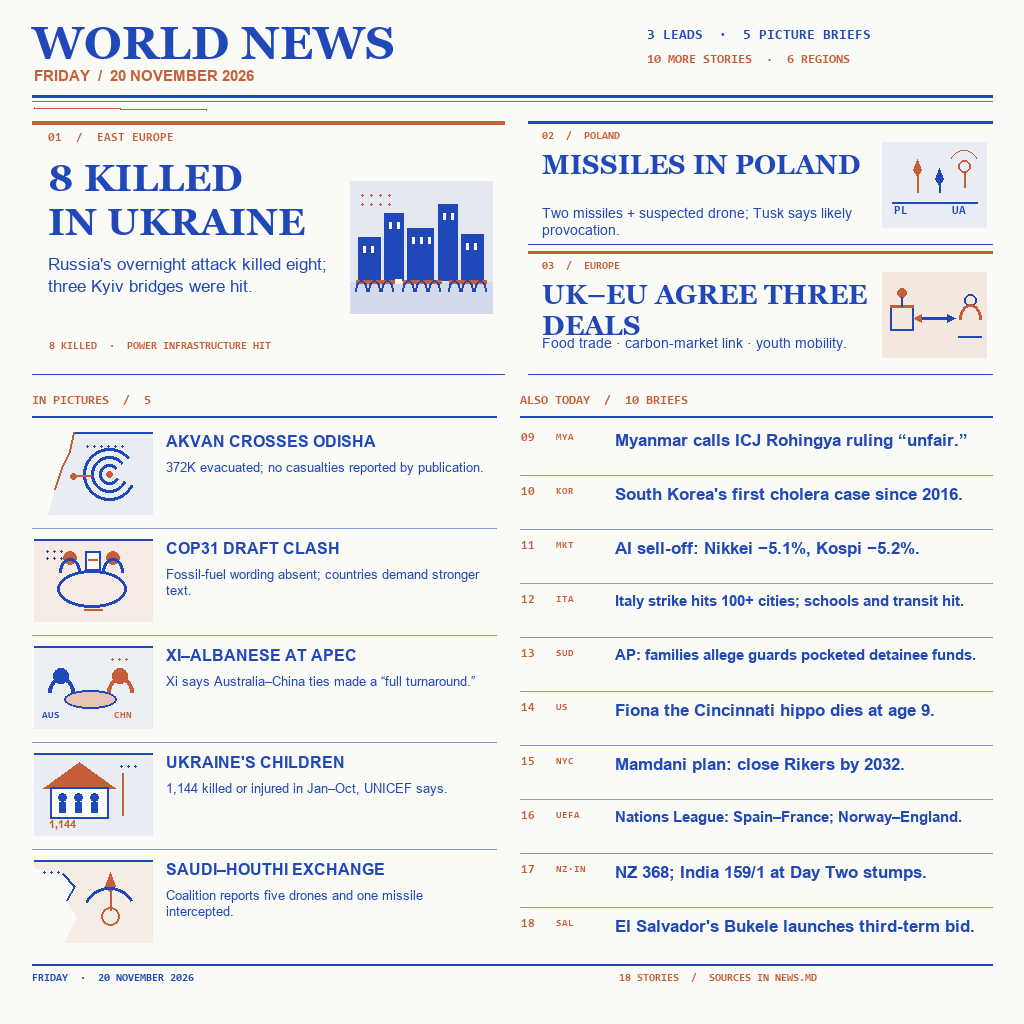
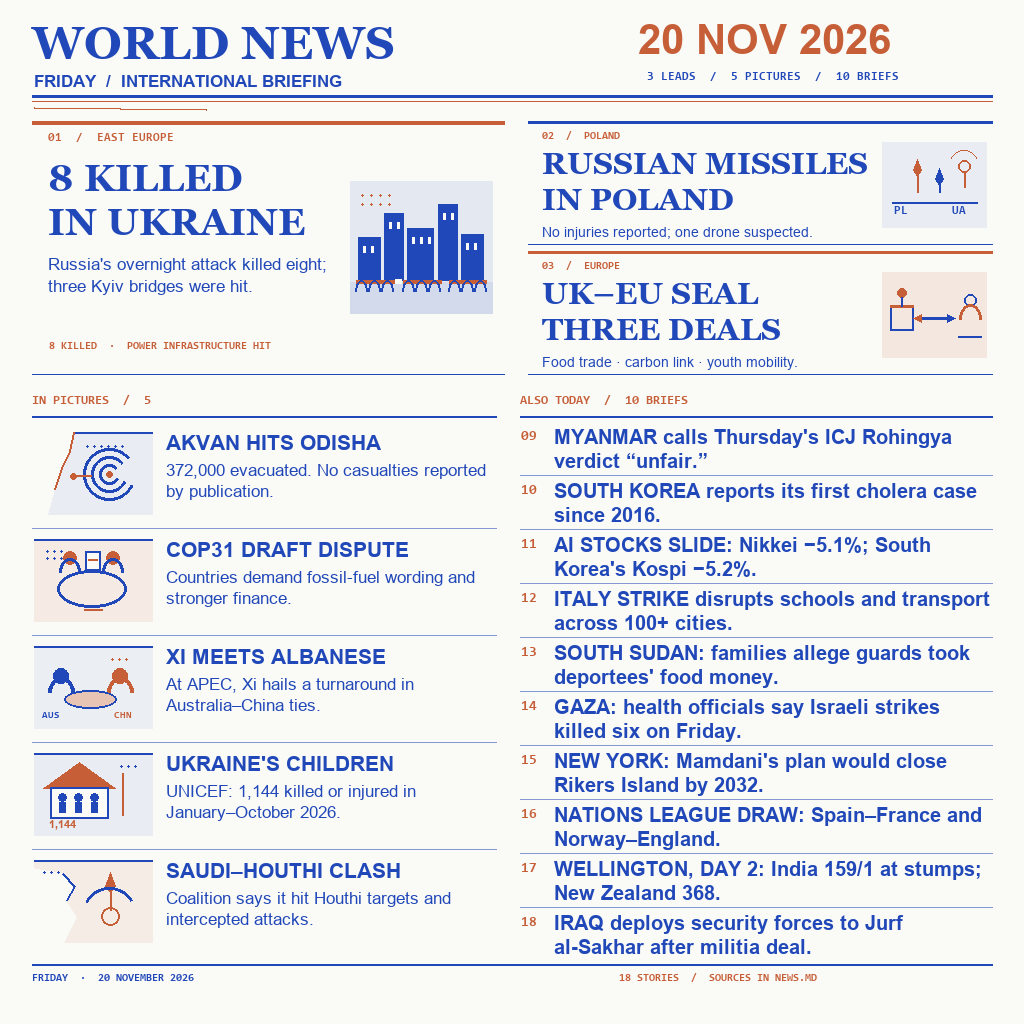
Improve thumbnail readability and same-day news selection

diff --git a/render-v2.py b/render-v2.py
@@ -236,9 +236,9 @@ def draw_thumb_gulf(draw: ImageDraw.ImageDraw, x: int, y: int, w: int, h: int) -
 
 def draw_header(draw: ImageDraw.ImageDraw) -> None:
     ink_text(draw, (32, 16), "WORLD NEWS", font("display", 46), BLUE, "masthead")
-    ink_text(draw, (34, 67), "FRIDAY  /  20 NOVEMBER 2026", font("bold", 15), ORANGE, "date")
-    ink_text(draw, (647, 28), "3 LEADS  ·  5 PICTURE BRIEFS", font("mono", 14), BLUE, "edition-top")
-    ink_text(draw, (647, 53), "10 MORE STORIES  ·  6 REGIONS", font("mono", 13), ORANGE, "edition-bottom")
+    ink_text(draw, (34, 71), "FRIDAY  /  INTERNATIONAL BRIEFING", font("bold", 17), BLUE, "edition-kicker")
+    ink_text(draw, (638, 15), "20 NOV 2026", font("bold", 42), ORANGE, "date")
+    ink_text(draw, (647, 71), "3 LEADS  /  5 PICTURES  /  10 BRIEFS", font("mono", 12), BLUE, "edition-top")
     rule(draw, (32, 96, 992, 96), BLUE, 3)
     rule(draw, (32, 101, 992, 101), ORANGE, 1)
     rule(draw, (34, 107, 206, 109), ORANGE, 2)
@@ -261,20 +261,20 @@ def draw_leads(draw: ImageDraw.ImageDraw) -> None:
     y2, h2 = 122, 122
     rule(draw, (rx, y2, rx + rw, y2), BLUE, 3)
     ink_text(draw, (rx + 14, y2 + 8), "02  /  POLAND", font("mono", 11), ORANGE, "lead-2-kicker")
-    paragraph(draw, rx + 14, y2 + 27, "MISSILES IN POLAND", font("display", 27), BLUE,
+    paragraph(draw, rx + 14, y2 + 23, "RUSSIAN MISSILES\nIN POLAND", font("display", 31), BLUE,
               333, 0, "lead-2-head", 2)
-    paragraph(draw, rx + 14, y2 + 83, "Two missiles + suspected drone; Tusk says likely provocation.",
-              font("sans", 14), BLUE, 335, 1, "lead-2-deck", 2)
+    paragraph(draw, rx + 14, y2 + 102, "No injuries reported; one drone suspected.",
+              font("sans", 14), BLUE, 335, 1, "lead-2-deck", 1)
     draw_poland_airspace(draw, rx + 354, y2 + 20)
     rule(draw, (rx, y2 + h2, rx + rw, y2 + h2), BLUE, 1)
 
     y3, h3 = 252, 122
     rule(draw, (rx, y3, rx + rw, y3), ORANGE, 3)
     ink_text(draw, (rx + 14, y3 + 8), "03  /  EUROPE", font("mono", 11), ORANGE, "lead-3-kicker")
-    paragraph(draw, rx + 14, y3 + 27, "UK–EU AGREE THREE DEALS", font("display", 27), BLUE,
+    paragraph(draw, rx + 14, y3 + 23, "UK–EU SEAL\nTHREE DEALS", font("display", 31), BLUE,
               333, 0, "lead-3-head", 2)
-    paragraph(draw, rx + 14, y3 + 83, "Food trade · carbon-market link · youth mobility.",
-              font("sans", 14), BLUE, 335, 1, "lead-3-deck", 2)
+    paragraph(draw, rx + 14, y3 + 102, "Food trade · carbon link · youth mobility.",
+              font("sans", 14), BLUE, 335, 1, "lead-3-deck", 1)
     draw_trade_icon(draw, rx + 354, y3 + 20)
     rule(draw, (rx, y3 + h3, rx + rw, y3 + h3), BLUE, 1)
 
@@ -284,19 +284,19 @@ def draw_picture_briefs(draw: ImageDraw.ImageDraw) -> None:
     ink_text(draw, (x, 394), "IN PICTURES  /  5", font("mono", 13), ORANGE, "pictures-heading")
     rule(draw, (x, 416, x + colw, 416), BLUE, 2)
     entries = [
-        ("AKVAN CROSSES ODISHA", "372K evacuated; no casualties reported by publication.", draw_thumb_cyclone),
-        ("COP31 DRAFT CLASH", "Fossil-fuel wording absent; countries demand stronger text.", draw_thumb_cop),
-        ("XI–ALBANESE AT APEC", "Xi says Australia–China ties made a “full turnaround.”", draw_thumb_apec),
-        ("UKRAINE'S CHILDREN", "1,144 killed or injured in Jan–Oct, UNICEF says.", draw_thumb_children),
-        ("SAUDI–HOUTHI EXCHANGE", "Coalition reports five drones and one missile intercepted.", draw_thumb_gulf),
+        ("AKVAN HITS ODISHA", "372,000 evacuated. No casualties reported by publication.", draw_thumb_cyclone),
+        ("COP31 DRAFT DISPUTE", "Countries demand fossil-fuel wording and stronger finance.", draw_thumb_cop),
+        ("XI MEETS ALBANESE", "At APEC, Xi hails a turnaround in Australia–China ties.", draw_thumb_apec),
+        ("UKRAINE'S CHILDREN", "UNICEF: 1,144 killed or injured in January–October 2026.", draw_thumb_children),
+        ("SAUDI–HOUTHI CLASH", "Coalition says it hit Houthi targets and intercepted attacks.", draw_thumb_gulf),
     ]
     row_h = 107
     for i, (title, body, art) in enumerate(entries):
         y = 422 + i * row_h
         art(draw, x + 2, y + 10, 118, 82)
-        paragraph(draw, x + 134, y + 10, title, font("bold", 16), BLUE,
-                  324, 1, f"thumb-{i+1}-head", 2)
-        paragraph(draw, x + 134, y + 38, body, font("sans", 13), BLUE,
+        paragraph(draw, x + 134, y + 8, title, font("bold", 21), BLUE,
+                  324, 1, f"thumb-{i+1}-head", 1)
+        paragraph(draw, x + 134, y + 38, body, font("sans", 17), BLUE,
                   324, 1, f"thumb-{i+1}-deck", 3)
         if i < len(entries) - 1:
             rule(draw, (x, y + row_h - 1, x + colw, y + row_h - 1), screened(BLUE, .55), 1)
@@ -307,24 +307,23 @@ def draw_text_briefs(draw: ImageDraw.ImageDraw) -> None:
     ink_text(draw, (x, 394), "ALSO TODAY  /  10 BRIEFS", font("mono", 13), ORANGE, "briefs-heading")
     rule(draw, (x, 416, x + colw, 416), BLUE, 2)
     entries = [
-        "Myanmar calls ICJ Rohingya ruling “unfair.”",
-        "South Korea's first cholera case since 2016.",
-        "AI sell-off: Nikkei −5.1%, Kospi −5.2%.",
-        "Italy strike hits 100+ cities; schools and transit hit.",
-        "AP: families allege guards pocketed detainee funds.",
-        "Fiona the Cincinnati hippo dies at age 9.",
-        "Mamdani plan: close Rikers by 2032.",
-        "Nations League: Spain–France; Norway–England.",
-        "NZ 368; India 159/1 at Day Two stumps.",
-        "El Salvador's Bukele launches third-term bid.",
+        "MYANMAR calls Thursday's ICJ Rohingya verdict “unfair.”",
+        "SOUTH KOREA reports its first cholera case since 2016.",
+        "AI STOCKS SLIDE: Nikkei −5.1%; South Korea's Kospi −5.2%.",
+        "ITALY STRIKE disrupts schools and transport across 100+ cities.",
+        "SOUTH SUDAN: families allege guards took deportees' food money.",
+        "GAZA: health officials say Israeli strikes killed six on Friday.",
+        "NEW YORK: Mamdani's plan would close Rikers Island by 2032.",
+        "NATIONS LEAGUE DRAW: Spain–France and Norway–England.",
+        "WELLINGTON, DAY 2: India 159/1 at stumps; New Zealand 368.",
+        "IRAQ deploys security forces to Jurf al-Sakhar after militia deal.",
     ]
-    tags = ("MYA", "KOR", "MKT", "ITA", "SUD", "US", "NYC", "UEFA", "NZ·IN", "SAL")
     row_h = 54
-    for i, (title, tag) in enumerate(zip(entries, tags)):
+    for i, title in enumerate(entries):
         y = 422 + i * row_h
-        ink_text(draw, (x + 1, y + 10), f"{i+9:02d}", font("mono", 12), ORANGE, f"brief-{i+9}-number")
-        ink_text(draw, (x + 36, y + 10), tag, font("mono", 10), ORANGE, f"brief-{i+9}-tag")
-        fit_line(draw, title, x + 95, y + 8, colw - 98, 17, 14, BLUE, f"brief-{i+9}-text")
+        ink_text(draw, (x + 1, y + 7), f"{i+9:02d}", font("mono", 14), ORANGE, f"brief-{i+9}-number")
+        paragraph(draw, x + 34, y + 3, title, font("bold", 20), BLUE,
+                  colw - 36, 0, f"brief-{i+9}-text", 2)
         if i < len(entries) - 1:
             rule(draw, (x, y + row_h - 1, x + colw, y + row_h - 1), screened(BLUE, .55), 1)
 

diff --git a/main.py b/main.py
@@ -2,7 +2,7 @@
 """make.fun entry: news-image-20261120 — "Sum up 20 November's world news in one image".
 
 The artwork (entry.png) is checked into this repository. It was rendered by
-render.py (Pillow, build-time only) from original vector-style drawing code.
+render-v2.py (Pillow, build-time only) from original vector-style drawing code.
 This runtime uses only the Python standard library: it copies the committed
 image to the output directory, byte for byte, so every run is deterministic.
 

diff --git a/NEWS.md b/NEWS.md
@@ -23,11 +23,11 @@ A three-lead front page, five illustrated briefs, and ten additional headlines. 
 11. **Markets:** AI- and chip-related share selling spread globally; AP reported the Nikkei down 5.1% and the Kospi down 5.2%.[29]
 12. **Italy:** A nationwide strike disrupted transport and schools; demonstrations took place in more than 100 cities.[41]
 13. **South Sudan:** AP reported allegations that guards pocketed money sent by families of deportees; five deportees remained in custody.[30]
-14. **Fiona:** Cincinnati Zoo's nine-year-old hippo died after complications from swallowing a knit hat.[37]
+14. **Gaza:** Local health officials said Israeli strikes killed six people in central Gaza on Friday; Israel's military said its targets were militants.[27]
 15. **New York:** Mamdani announced a plan to close Rikers Island by 2032, subject to council approval.[36]
 16. **Football:** UEFA's Nations League draw set Spain–France and Norway–England as quarter-final ties.[35]
 17. **Cricket:** New Zealand made 368; India ended day two at 159/1. Jaiswal scored 85; Rahul was unbeaten on 52.[39]
-18. **El Salvador:** Bukele launched a third-term bid; AP described the term-limit change and concerns about checks and balances.[40]
+18. **Iraq:** Security forces deployed to Jurf al-Sakhar following a reported agreement with Kataib Hezbollah; the arrangement did not immediately remove the militia.[27]
 
 ## Sources
 
@@ -44,8 +44,6 @@ A three-lead front page, five illustrated briefs, and ten additional headlines. 
 [30] https://www.eastbaytimes.com/2026/11/20/us-deportees-south-sudan-hunger
 [35] https://www.uefa.com/uefanationsleague/news/02ab-221d9e23448d-d862e943f6f2-1000--uefa-nations-league-quarter-final-and-play-off-ties-spain-vs
 [36] https://apnews.com/article/zohran-mamdani-rikers-island-aaf05ad46f0a999a213f2613fe39f7dc
-[37] https://apnews.com/article/fiona-hippo-cincinnati-zoo-hat-3d90d10c57698af06e5a7a67bed05608
 [38] https://au.news.yahoo.com/south-korea-issues-warning-reporting-120749918.html
 [39] https://www.mankatofreepress.com/ap/sports/india-ends-day-2-at-159-1-in-reply-to-new-zealands-368-in-the/article_d9f97c13-0bd6-5c69-a58d-021cd19b5e60.html
-[40] https://www.theweek.in/wire-updates/international/2026/11/20/el-salvador-president-nayib-bukele-seeks-third-term-at-home-while-fighting-gangs-in-haiti.html
 [41] https://www.cp24.com/news/world/2026/11/20/workers-and-students-protest-across-europe-as-a-strike-in-italy-disrupts-services

diff --git a/README.md b/README.md
@@ -13,8 +13,8 @@ column, and ten text-only briefs at right. The leads cover Russia's attack on
 Ukraine, the Poland airspace incident, and new UK–EU agreements. Illustrated
 briefs cover Cyclone Akvan, COP31, the Xi–Albanese meeting, UNICEF's Ukraine
 child-casualty figures, and the Saudi–Houthi exchange. The ten additional briefs
-span Myanmar, South Korea, markets, Italy, South Sudan, Fiona the hippo, New York,
-UEFA, cricket, and El Salvador. The exact wording and cited source URLs are in
+span Myanmar, South Korea, markets, Italy, South Sudan, Gaza, New York,
+UEFA, cricket, and Iraq. The exact wording and cited source URLs are in
 [NEWS.md](NEWS.md); [SOURCES.md](SOURCES.md) explains the source mapping.
 
 ## Run it

diff --git a/SOURCES.md b/SOURCES.md
@@ -13,9 +13,9 @@ labels printed on the image.
   unresolved draft; Xi–Albanese at APEC; UNICEF's verified child-casualty total;
   Saudi–Houthi exchanges.
 - Text briefs 9–18: Myanmar's response to the ICJ ruling; South Korea's cholera
-  report; AI-related market falls; South Sudan deportee allegations; Fiona's death;
-  New York's proposed Rikers plan; UEFA's draw; New Zealand–India Test; El Salvador
-  election news.
+  report; AI-related market falls; South Sudan deportee allegations; Gaza strikes;
+  New York's proposed Rikers plan; UEFA's draw; New Zealand–India Test; the Iraqi
+  security deployment at Jurf al-Sakhar.
 
 ## Date and attribution notes
 
